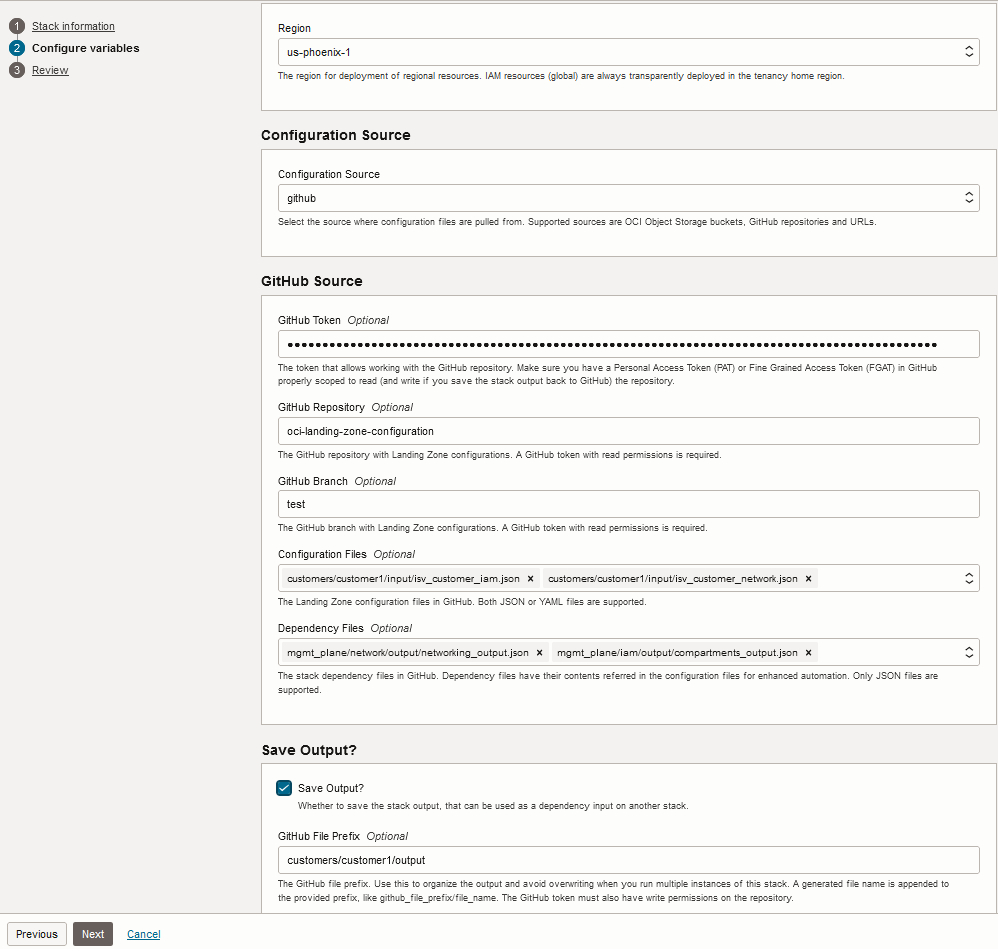
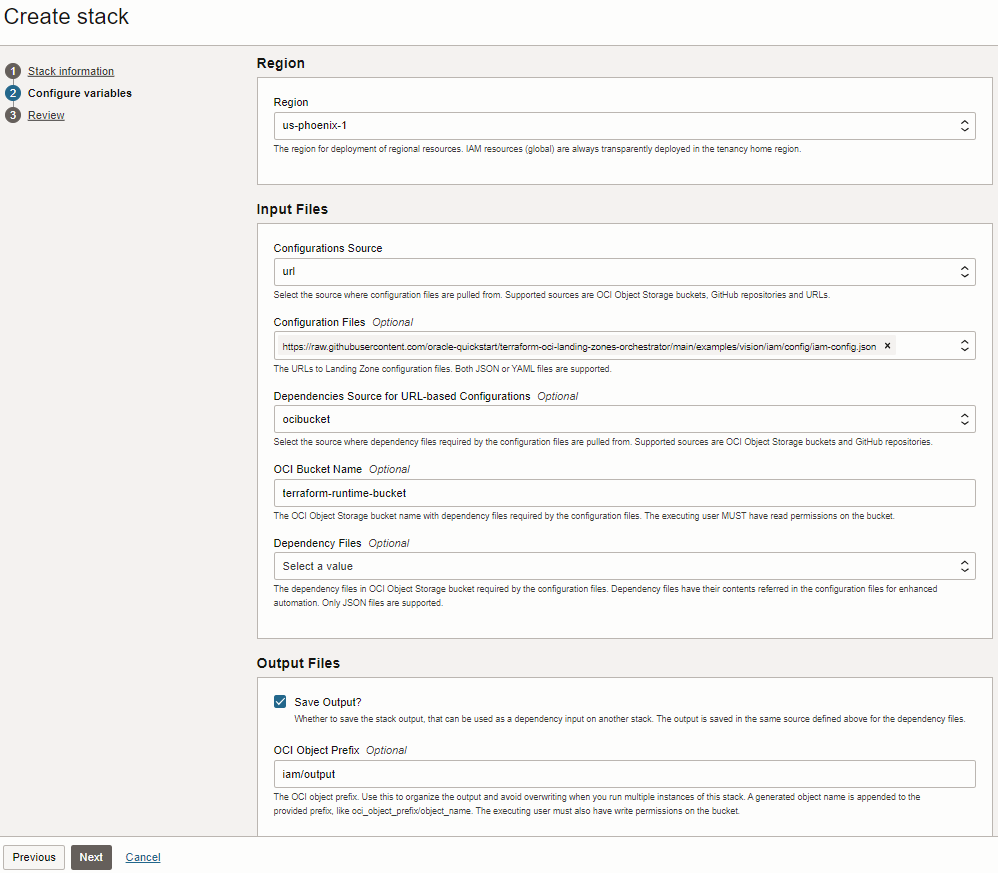
doc: updates

Changed region(s): [[0.2485, 0.0, 1.0, 0.9588], [0.0, 0.0, 0.1553, 0.1546], [0.0, 0.9588, 0.1553, 1.0]]

diff --git a/README.md b/README.md
@@ -63,37 +63,54 @@ Before anything, have your configurations (and dependencies, if any) ready and a
 
 An extensive catalog of configurations is available in the [Operating Entities Landing Zones repository](https://github.com/oracle-quickstart/terraform-oci-open-lz/tree/master/examples).
 
-### Using OCI Resource Manager Service (RMS)
+### Deploying with OCI Resource Manager Service (RMS)
 
 The Orchestrator provides an [RMS Facade](./rms-facade/) module allowing for the usage of configuration files stored in private GitHub repositories, private OCI buckets or plain URLs. Dependencies can also be consumed from GitHub repositories and OCI buckets.
 
-Configuration Source | Configuration Formats | Dependencies Format | Requirements 
----------------------|-----------------------| ------------------- | ------------ 
-GitHub repository    | JSON, YAML            | JSON                | GitHub token with read/write access permissions on the repository. 
-OCI bucket           | JSON, YAML            | JSON                | OCI IAM permissions to read/write to the bucket. 
-Plain URLs           | JSON, YAML            | JSON                | URLs are reachable.
+The table below summarizes the supported combinations of configurations and dependencies sources:
 
-Follow these steps for deploying with RMS:
+Configurations Source         | Configuration Files Formats | Dependencies Sources                          | Dependency Files Formats | Requirements 
+------------------------------|-----------------------------| ----------------------------------------------|------------------------- | ------------ 
+Private GitHub repository     | JSON, YAML                  | Same private GitHub repository                | JSON                     | GitHub token with read/(write, if saving output) access permissions on the private GitHub repository. 
+Private OCI bucket            | JSON, YAML                  | Same private OCI bucket                       | JSON                     | OCI IAM permissions to read/(write, if saving output) to the private OCI bucket. 
+Plain Public URLs             | JSON, YAML                  | Private GitHub repository, private OCI bucket | JSON                     | URLs are reachable. Read/(write, if saving output) access permissions to private GitHub repository or private OCI bucket
 
-1. Click [![Deploy_To_OCI](./images/DeployToOCI.svg)](https://cloud.oracle.com/resourcemanager/stacks/create?zipUrl=https://github.com/oracle-quickstart/terraform-oci-landing-zones-orchestrator/archive/refs/heads/main.zip)
+Steps 1-10 below shows how to deploy with RMS. The stack is one concrete Orchestrator example with all variables pre-filled, and it can be changed depending on where your configuration files are located and which system (GitHub or OCI bucket) you want to utilize for dependencies. 
+
+**FOR RUNNING THE EXAMPLE AS-IS, A PRE-EXISTING PRIVATE BUCKET NAMED "terraform-runtime-bucket" IS REQUIRED.**
+
+1. Click [![Deploy_To_OCI](./images/DeployToOCI.svg)](https://cloud.oracle.com/resourcemanager/stacks/create?zipUrl=https://github.com/oracle-quickstart/terraform-oci-landing-zones-orchestrator/archive/refs/heads/urls-dep-source.zip&zipUrlVariables={"input_config_files_urls":"https://raw.githubusercontent.com/oracle-quickstart/terraform-oci-landing-zones-orchestrator/main/examples/vision/iam/config/iam-config.json","url_dependency_source_oci_bucket":"terraform-runtime-bucket","url_dependency_source":"ocibucket","save_output":true,"oci_object_prefix":"iam/output"})
+
 2. Accept terms, wait for the configuration to load. 
-3. Set *Working directory* to "terraform-oci-landing-zones-orchestrator/rms-facade". 
+3. Set *Working directory* to "terraform-oci-landing-zones-orchestrator-main/rms-facade". 
 4. Give the stack a name in the *Name* field.
-5. Set *Terraform version* to 1.2.x. Click *Next*. 
-6. Configure the input variables (see [image below](#rms-stack-input-variables) for an example):
-    1. Select the deployment *Region* (IAM resources are always automatically deployed in the home region).
-    2. Select the *Configuration Source*. Each source has distinct input fields, but all of them have *Configuration Files* (Required) and *Dependency Files* (Optional). The example shows GitHub as the *Configuration Source*, with two configuration files and two dependency files.
-    3. Select *Save Output?* option for saving the stack output. Optionally provide a prefix to the to-be-saved file. This file can be subsequently referred as a dependency in *Dependency Files* in another stack. The example saves the output to *customers/customer1/output* folder in the GitHub repository.
+5. Set *Terraform version* to 1.2.x. Click *Next* button at the bottom of the screen. 
+
+The [screenshot below](#rms-stack-creation) shows how the RMS stack creation screen looks like on step 5.
+
+<a name="rms-stack-creation">![rms-stack-creation](images/rms-stack-creation.png)</a>
+
+6. Upon clicking *Next* button, the *Configure variables* screen is displayed with input variables pre-filled: (see [image below](#rms-stack-input-variables) for an example):
+    1. Select or accept the selected deployment *Region* (IAM resources are always automatically deployed in the home region regardless).
+    2. In *Input Files* section, select the *Configurations Source*. Each supported source has distinct input fields, but all of them have *Configuration Files* (Required) and *Dependency Files* (Optional). The example has the following fields:
+        - *Configurations Source*: "url", which means any URL in the *Configuration Files* field must be publicly available.
+        - *Configuration Files*: "https://raw.githubusercontent.com/oracle-quickstart/terraform-oci-landing-zones-orchestrator/main/examples/vision/iam/config/iam-config.json", that happens to be available in this public GitHub repository.
+        - *Dependencies Source for URL-based Configurations*: "ocibucket", which means dependency files are read and written to an OCI private bucket.
+        - *OCI Bucket Name*: "terraform-runtime-bucket", the bucket name where dependency files are read and written to. **THE BUCKET IS NOT CREATED BY THE ORCHESTRATOR.**
+        - *Dependency Files*: empty, which means the specified configuration files stack do not rely on any dependencies.
+    3. In *Output Files* section, the following fields are pre-filled:
+        - *Save Output?* option is checked, which means the stack output is saved in the same OCI bucket specified for dependency files. The saved file can be subsequently referred as a dependency in *Dependency Files* in another stack. 
+        - *OCI Object Prefix*: "iam/output", which gets prepended to the generated file name. In this example, the full file path is "iam/output/compartments_output.json".
     4. Click *Next*.
 8. Uncheck *Run apply* option at the bottom of the screen. Click *Create*.
 9. Click the *Plan* button.
 10. Upon a successfully created plan, click the *Apply* button and pick the created plan in the *Apply job plan resolution* drop down.
 
-<a name="rms-stack-input-variables">Input variables example:</a>
+The [screenshot below](#rms-stack-creation) shows how the RMS stack variables look like on step 6.3.
 
-![rms-stack-input-variables](images/rms-stack-input-variables.png)
+<a name="rms-stack-input-variables">![rms-stack-input-variables](images/rms-stack-input-variables.png)</a>
 
-### Using Terraform CLI
+### Deploying with Terraform CLI
 
 In this folder, execute the typical Terraform workflow: *terraform init/plan/apply*.
 
